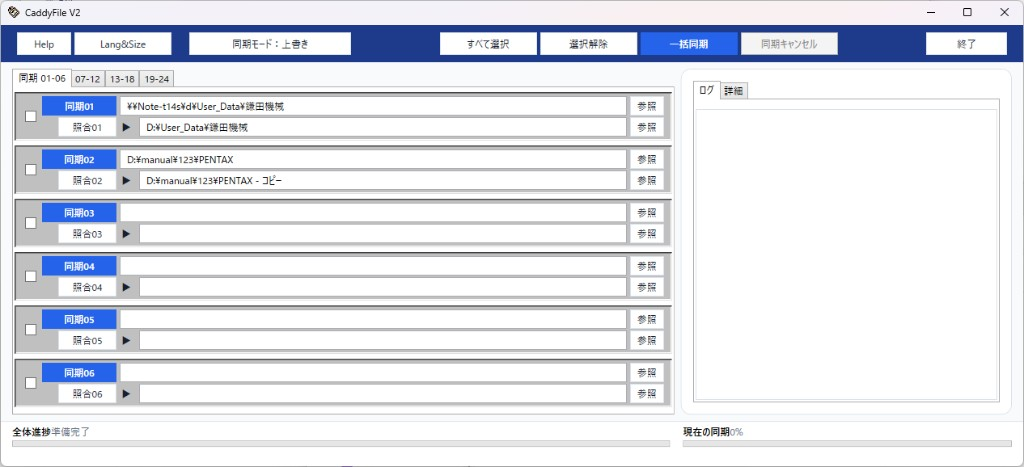
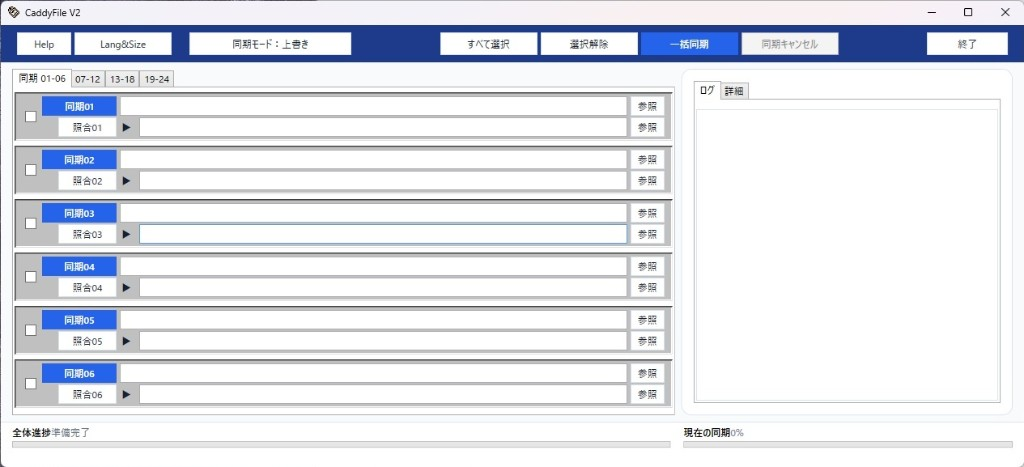
紹介文修正

diff --git a/css/style.css b/css/style.css
@@ -219,20 +219,101 @@ main {
   color: var(--text);
 }
 
+.product-screenshots {
+  display: flex;
+  flex-direction: column;
+  gap: 0.5rem;
+}
+
 .product-screenshot {
   margin: 0;
+}
+
+.screenshot-open {
+  display: block;
+  width: 100%;
+  padding: 0;
+  border: none;
+  background: none;
+  cursor: zoom-in;
+  border-radius: 4px;
+  transition: box-shadow 0.2s, transform 0.2s;
+}
+
+.screenshot-open:hover {
+  box-shadow: 0 4px 14px rgba(26, 74, 94, 0.14);
+  transform: scale(1.02);
+}
+
+.screenshot-open:focus-visible {
+  outline: 2px solid var(--line);
+  outline-offset: 2px;
 }
 
 .product-screenshot img {
   display: block;
   width: 100%;
-  max-height: 100px;
+  max-height: 85px;
   object-fit: contain;
   object-position: top left;
   border: 1px solid var(--surface-border);
   border-radius: 4px;
   box-shadow: 0 2px 8px rgba(26, 74, 94, 0.08);
   background: #ffffff;
+  pointer-events: none;
+}
+
+.lightbox {
+  border: none;
+  padding: 0;
+  background: transparent;
+  overflow: visible;
+  max-width: none;
+  max-height: none;
+}
+
+.lightbox::backdrop {
+  background: rgba(26, 74, 94, 0.78);
+  backdrop-filter: blur(4px);
+}
+
+.lightbox-image {
+  display: block;
+  max-width: min(95vw, 1100px);
+  max-height: 88vh;
+  width: auto;
+  height: auto;
+  border: 1px solid rgba(255, 255, 255, 0.35);
+  border-radius: 4px;
+  box-shadow: 0 8px 32px rgba(0, 0, 0, 0.35);
+  background: #ffffff;
+}
+
+.lightbox-close {
+  position: fixed;
+  top: 1rem;
+  right: 1rem;
+  z-index: 1;
+  width: 2.5rem;
+  height: 2.5rem;
+  border: 1px solid rgba(255, 255, 255, 0.45);
+  border-radius: 4px;
+  background: rgba(255, 255, 255, 0.92);
+  color: var(--text);
+  font-size: 1.5rem;
+  line-height: 1;
+  cursor: pointer;
+  transition: background 0.2s, border-color 0.2s;
+}
+
+.lightbox-close:hover {
+  background: #ffffff;
+  border-color: var(--line);
+}
+
+.lightbox-close:focus-visible {
+  outline: 2px solid var(--line);
+  outline-offset: 2px;
 }
 
 .product-body {

diff --git a/js/lightbox.js b/js/lightbox.js
@@ -1,0 +1,27 @@
+const dialog = document.getElementById("screenshot-lightbox");
+const lightboxImage = dialog.querySelector(".lightbox-image");
+const closeButton = dialog.querySelector(".lightbox-close");
+
+document.querySelectorAll(".screenshot-open").forEach((button) => {
+  button.addEventListener("click", () => {
+    const image = button.querySelector("img");
+    lightboxImage.src = image.currentSrc || image.src;
+    lightboxImage.alt = image.alt;
+    dialog.showModal();
+  });
+});
+
+closeButton.addEventListener("click", () => {
+  dialog.close();
+});
+
+dialog.addEventListener("click", (event) => {
+  if (event.target === dialog) {
+    dialog.close();
+  }
+});
+
+dialog.addEventListener("close", () => {
+  lightboxImage.removeAttribute("src");
+  lightboxImage.alt = "";
+});

diff --git a/index.html b/index.html
@@ -96,15 +96,25 @@
               <h3 class="product-name">CaddyFile V2</h3>
               <a class="product-link" href="https://minamite.booth.pm/items/8436925" target="_blank" rel="noopener noreferrer">BOOTH で購入</a>
             </div>
-            <figure class="product-screenshot">
-              <img src="images/caddyfile-v2.png" alt="CaddyFile V2 の操作画面" width="640" height="400" loading="lazy">
-            </figure>
+            <div class="product-screenshots">
+              <figure class="product-screenshot">
+                <button type="button" class="screenshot-open" aria-label="CaddyFile V2 の操作画面を拡大表示">
+                  <img src="images/caddyfile-v2.png" alt="CaddyFile V2 の操作画面" width="640" height="400" loading="lazy">
+                </button>
+              </figure>
+              <figure class="product-screenshot">
+                <button type="button" class="screenshot-open" aria-label="CaddyFile V2 の照合画面を拡大表示">
+                  <img src="images/caddyfile-v2-verify.png" alt="CaddyFile V2 の照合画面" width="640" height="400" loading="lazy">
+                </button>
+              </figure>
+            </div>
             <div class="product-body">
               <div class="product-desc">
                 <p>Windows 向けフォルダ同期ツール。同期設定は最大24件。一括同期に対応し、上書きの有無を切り替え可能。</p>
                 <p>上書きありの場合、上書き対象ファイルはいったんゴミ箱へ移動してから同期します。ゴミ箱への移動に失敗した場合は、そのファイルの処理を中断し、データ損失を防ぎます。必要に応じてゴミ箱からデータを復元できます。</p>
                 <p class="product-note">※動作環境によっては、復元を保証できない場合があります。</p>
                 <p>上書きなしの場合、同名ファイルは転送しません。同名以外のファイルのみ転送します。</p>
+                <p>照合は指定フォルダ内のファイル及びサブフォルダ内のファイルの日付とサイズを照合します。</p>
                 <p>進捗表示付き。日本語・英語に対応。Windows 10 / 11（64bit）、.NET 10 以降で動作。軽快な操作感を目指しています。</p>
               </div>
             </div>
@@ -129,5 +139,12 @@
       <p class="copyright">Copyright © 1999 MinamiTekuno. All rights reserved.</p>
     </footer>
   </div>
+
+  <dialog class="lightbox" id="screenshot-lightbox" aria-label="画面拡大表示">
+    <button type="button" class="lightbox-close" aria-label="閉じる">×</button>
+    <img class="lightbox-image" src="" alt="">
+  </dialog>
+
+  <script src="js/lightbox.js"></script>
 </body>
 </html>